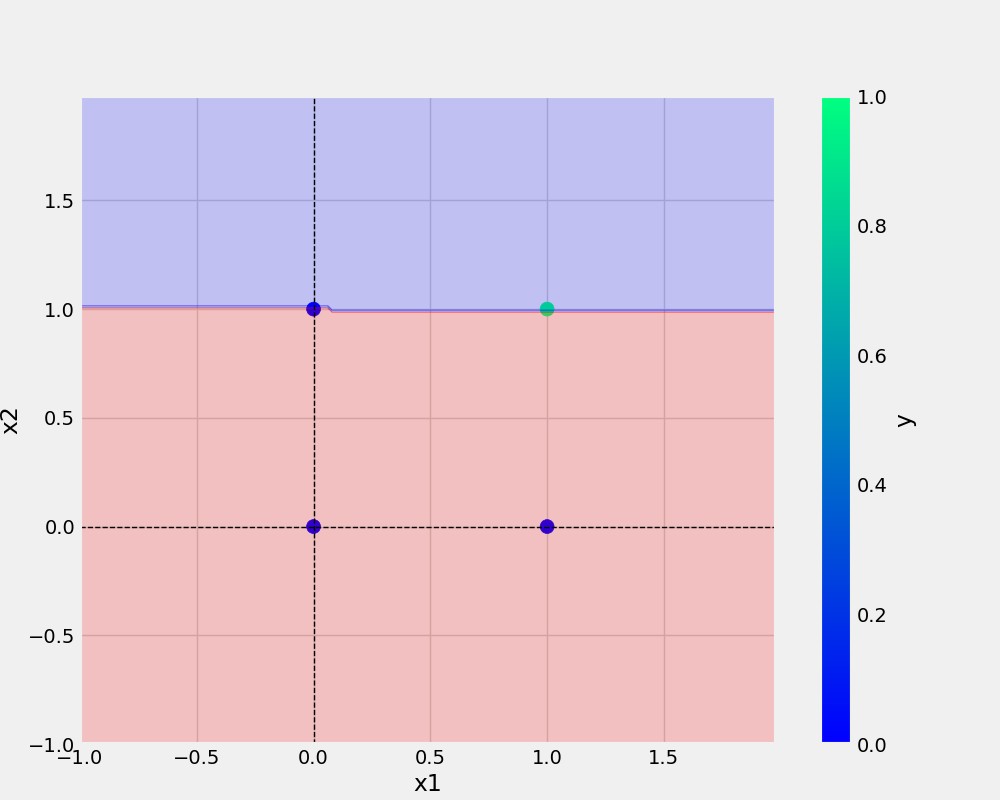
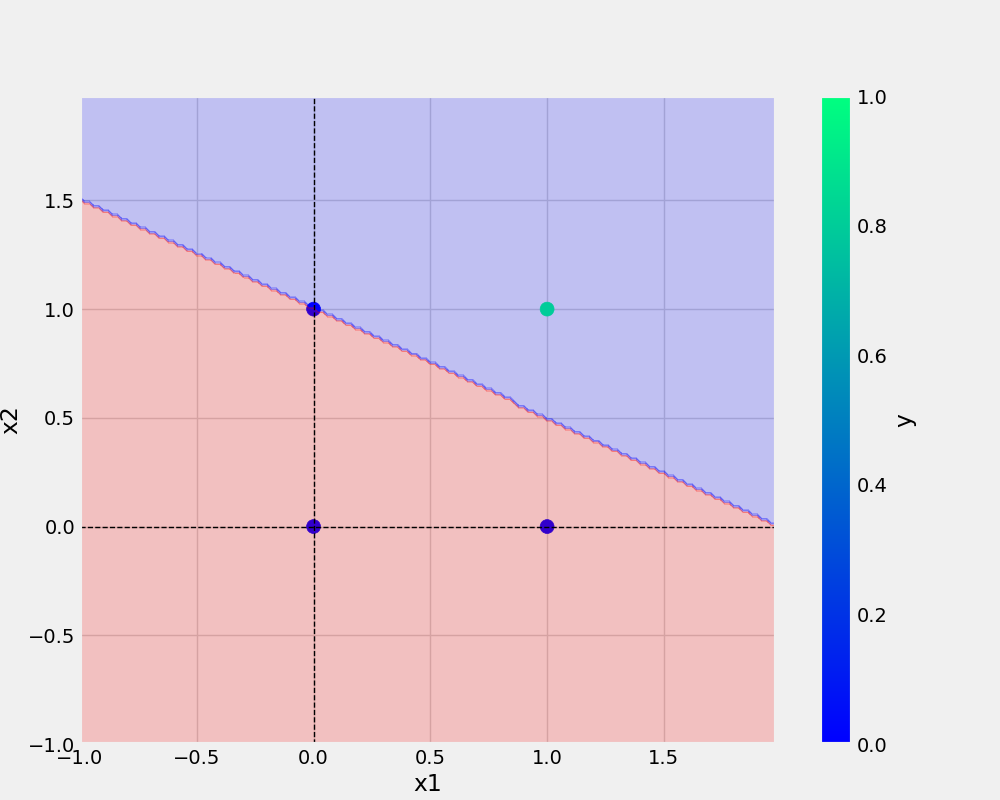
organized

Changed region(s): [[0.062, 0.25, 0.775, 0.6562]]

diff --git a/or.py b/or.py
@@ -5,28 +5,30 @@ from utils.all_utils import prepare_data, save_model, save_plot
 import pandas as pd
 import numpy as np
 
-def main(data,eta, epoch):
+def main(data,eta,epochs):
     
-    df = pd.DataFrame(data)
+
+    df = pd.DataFrame(OR)
     print(df)
 
     X,y = prepare_data(df)
 
-    model = Perceptron(eta=eta, epochs=epoch)
+
+    model = Perceptron(eta=ETA, epochs=EPOCHS)
     model.fit(X, y)
 
     _ = model.total_loss()
 
-    save_model(model, filename="and.model")
-    save_plot(df, "and.png", model)
+    save_model(model, filename="or.model")
+    save_plot(df, "or.png", model)
 
 if __name__ == '__main__':
-    AND = {
+    OR = {
 
         "x1": [0,0,1,1],
         "x2": [0,1,0,1],
-        "y": [0,0,0,1],
+        "y": [0,1,1,1],
     }
     ETA = 0.3 # 0 and 1
     EPOCHS = 10
-    main(data=AND,eta=ETA,epoch=EPOCHS) 
+    main(OR,ETA,EPOCHS)
